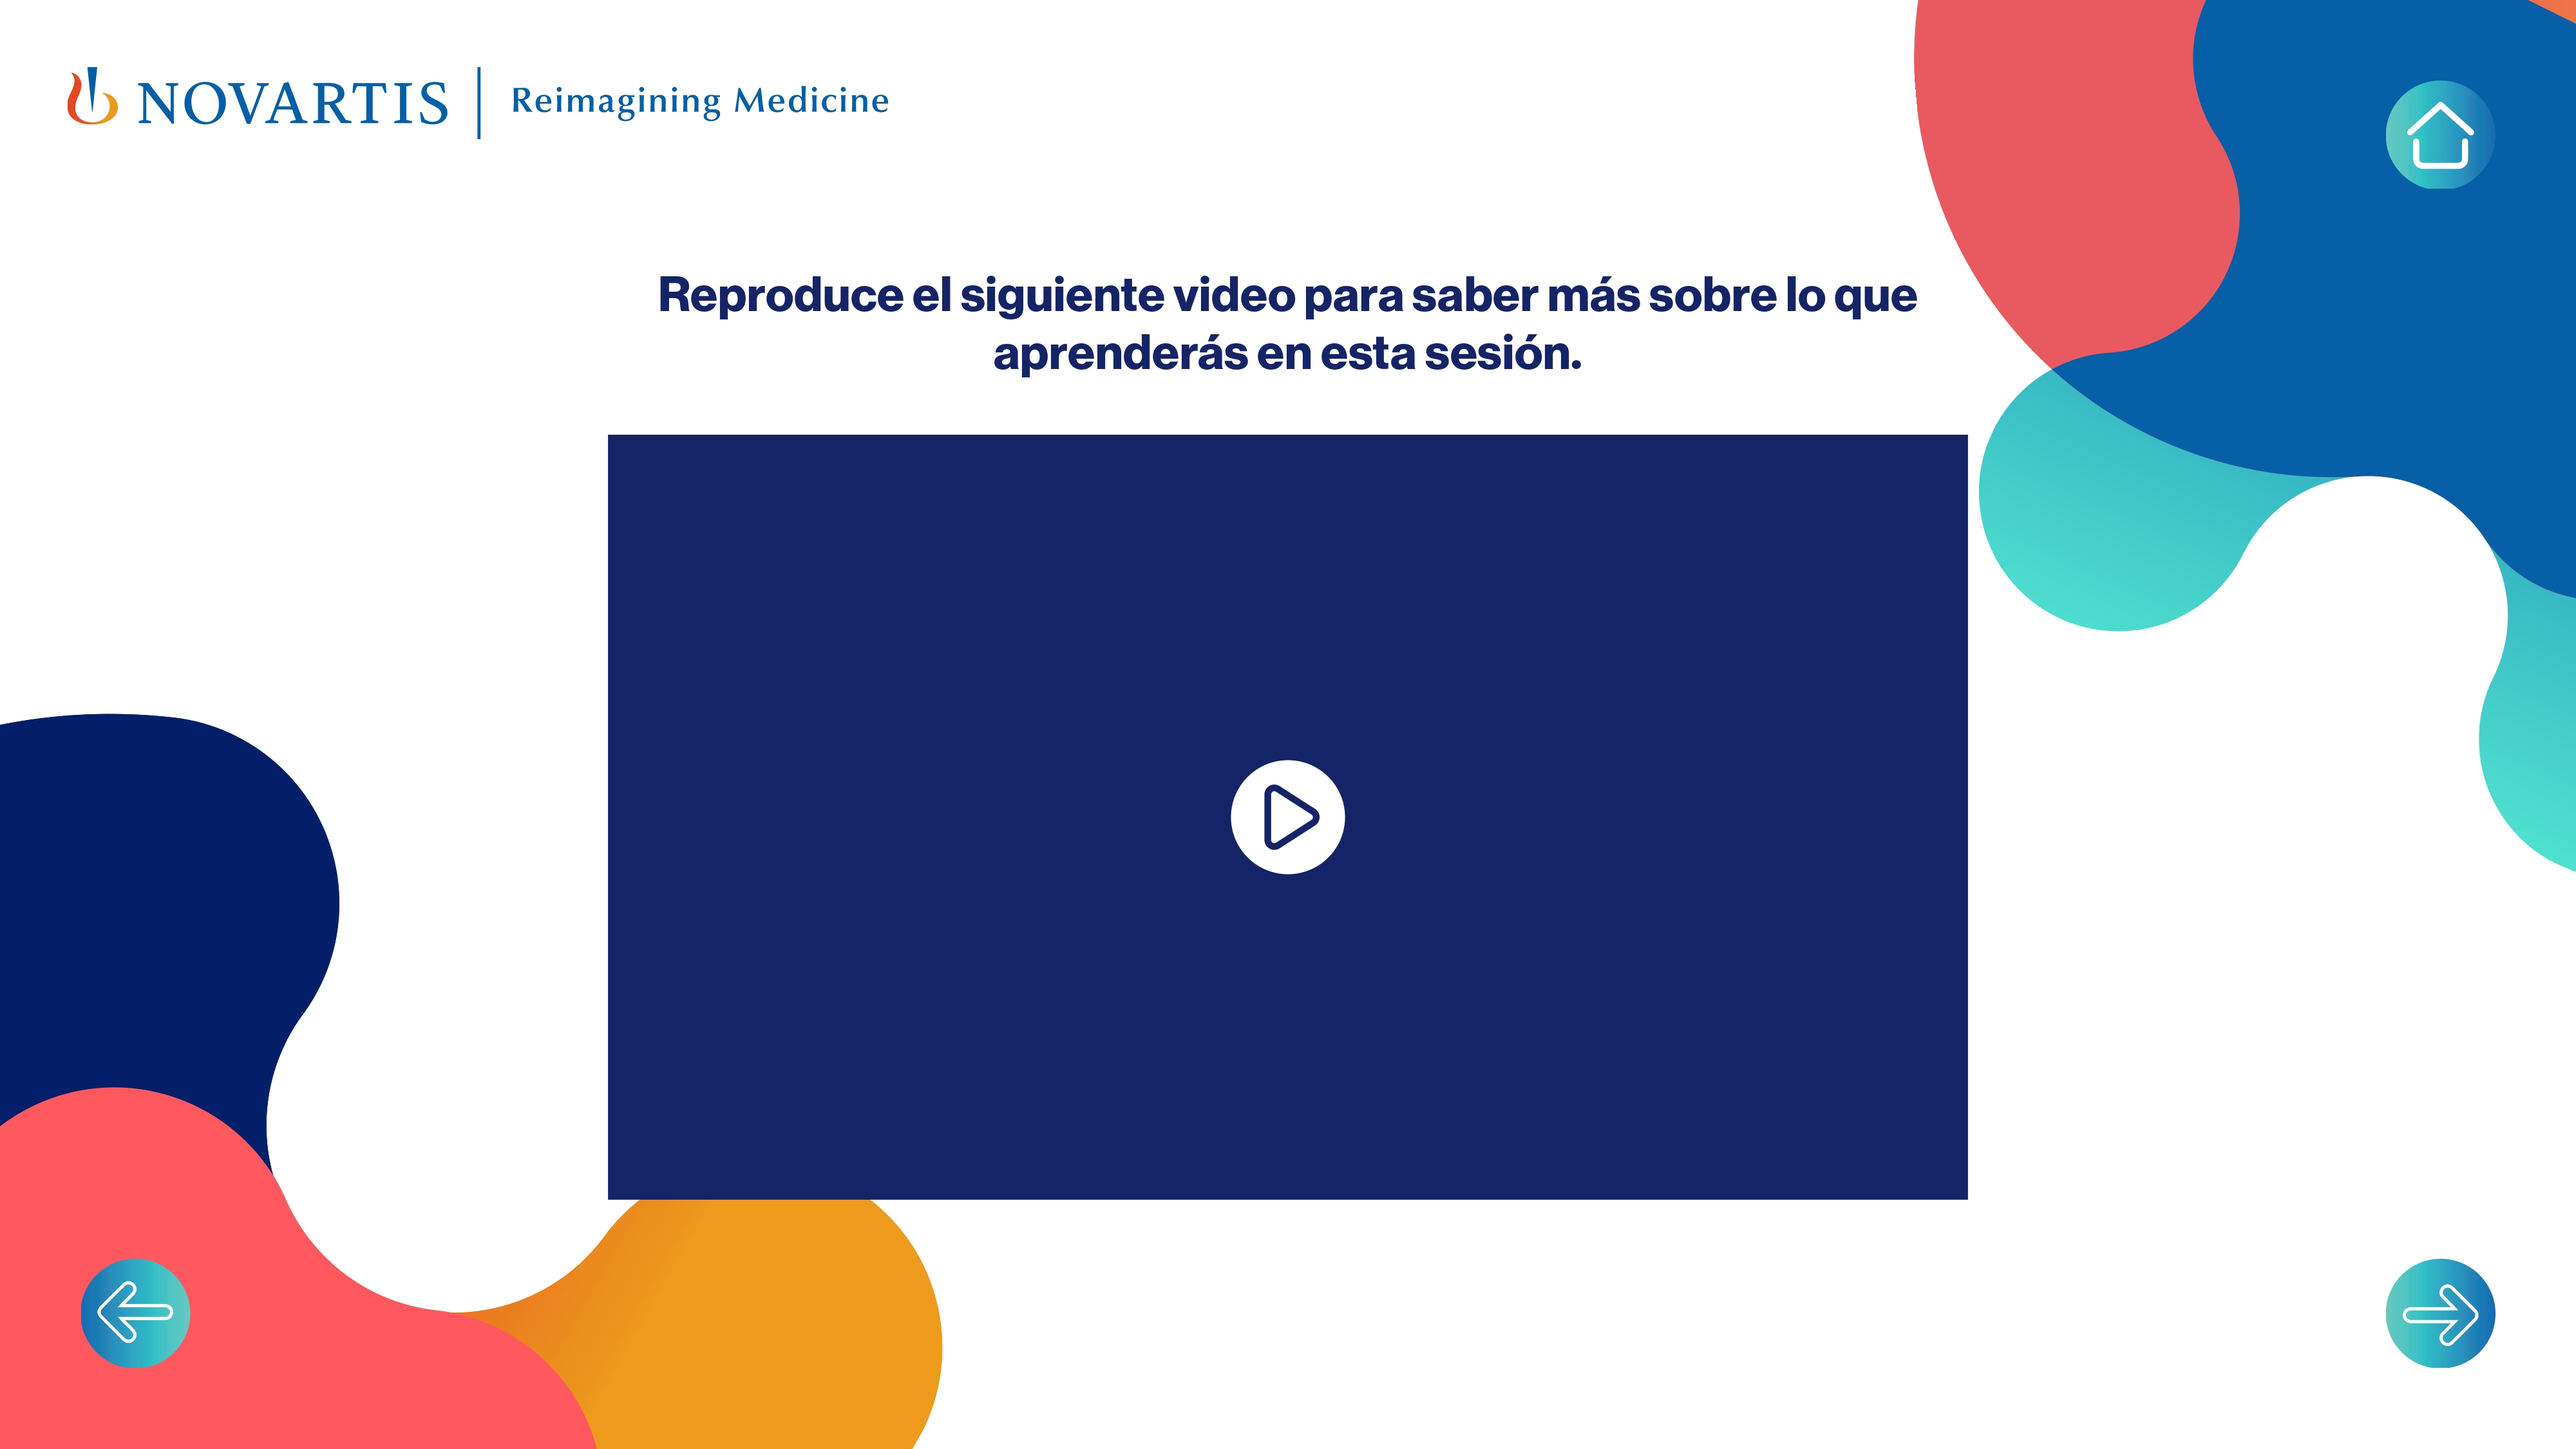
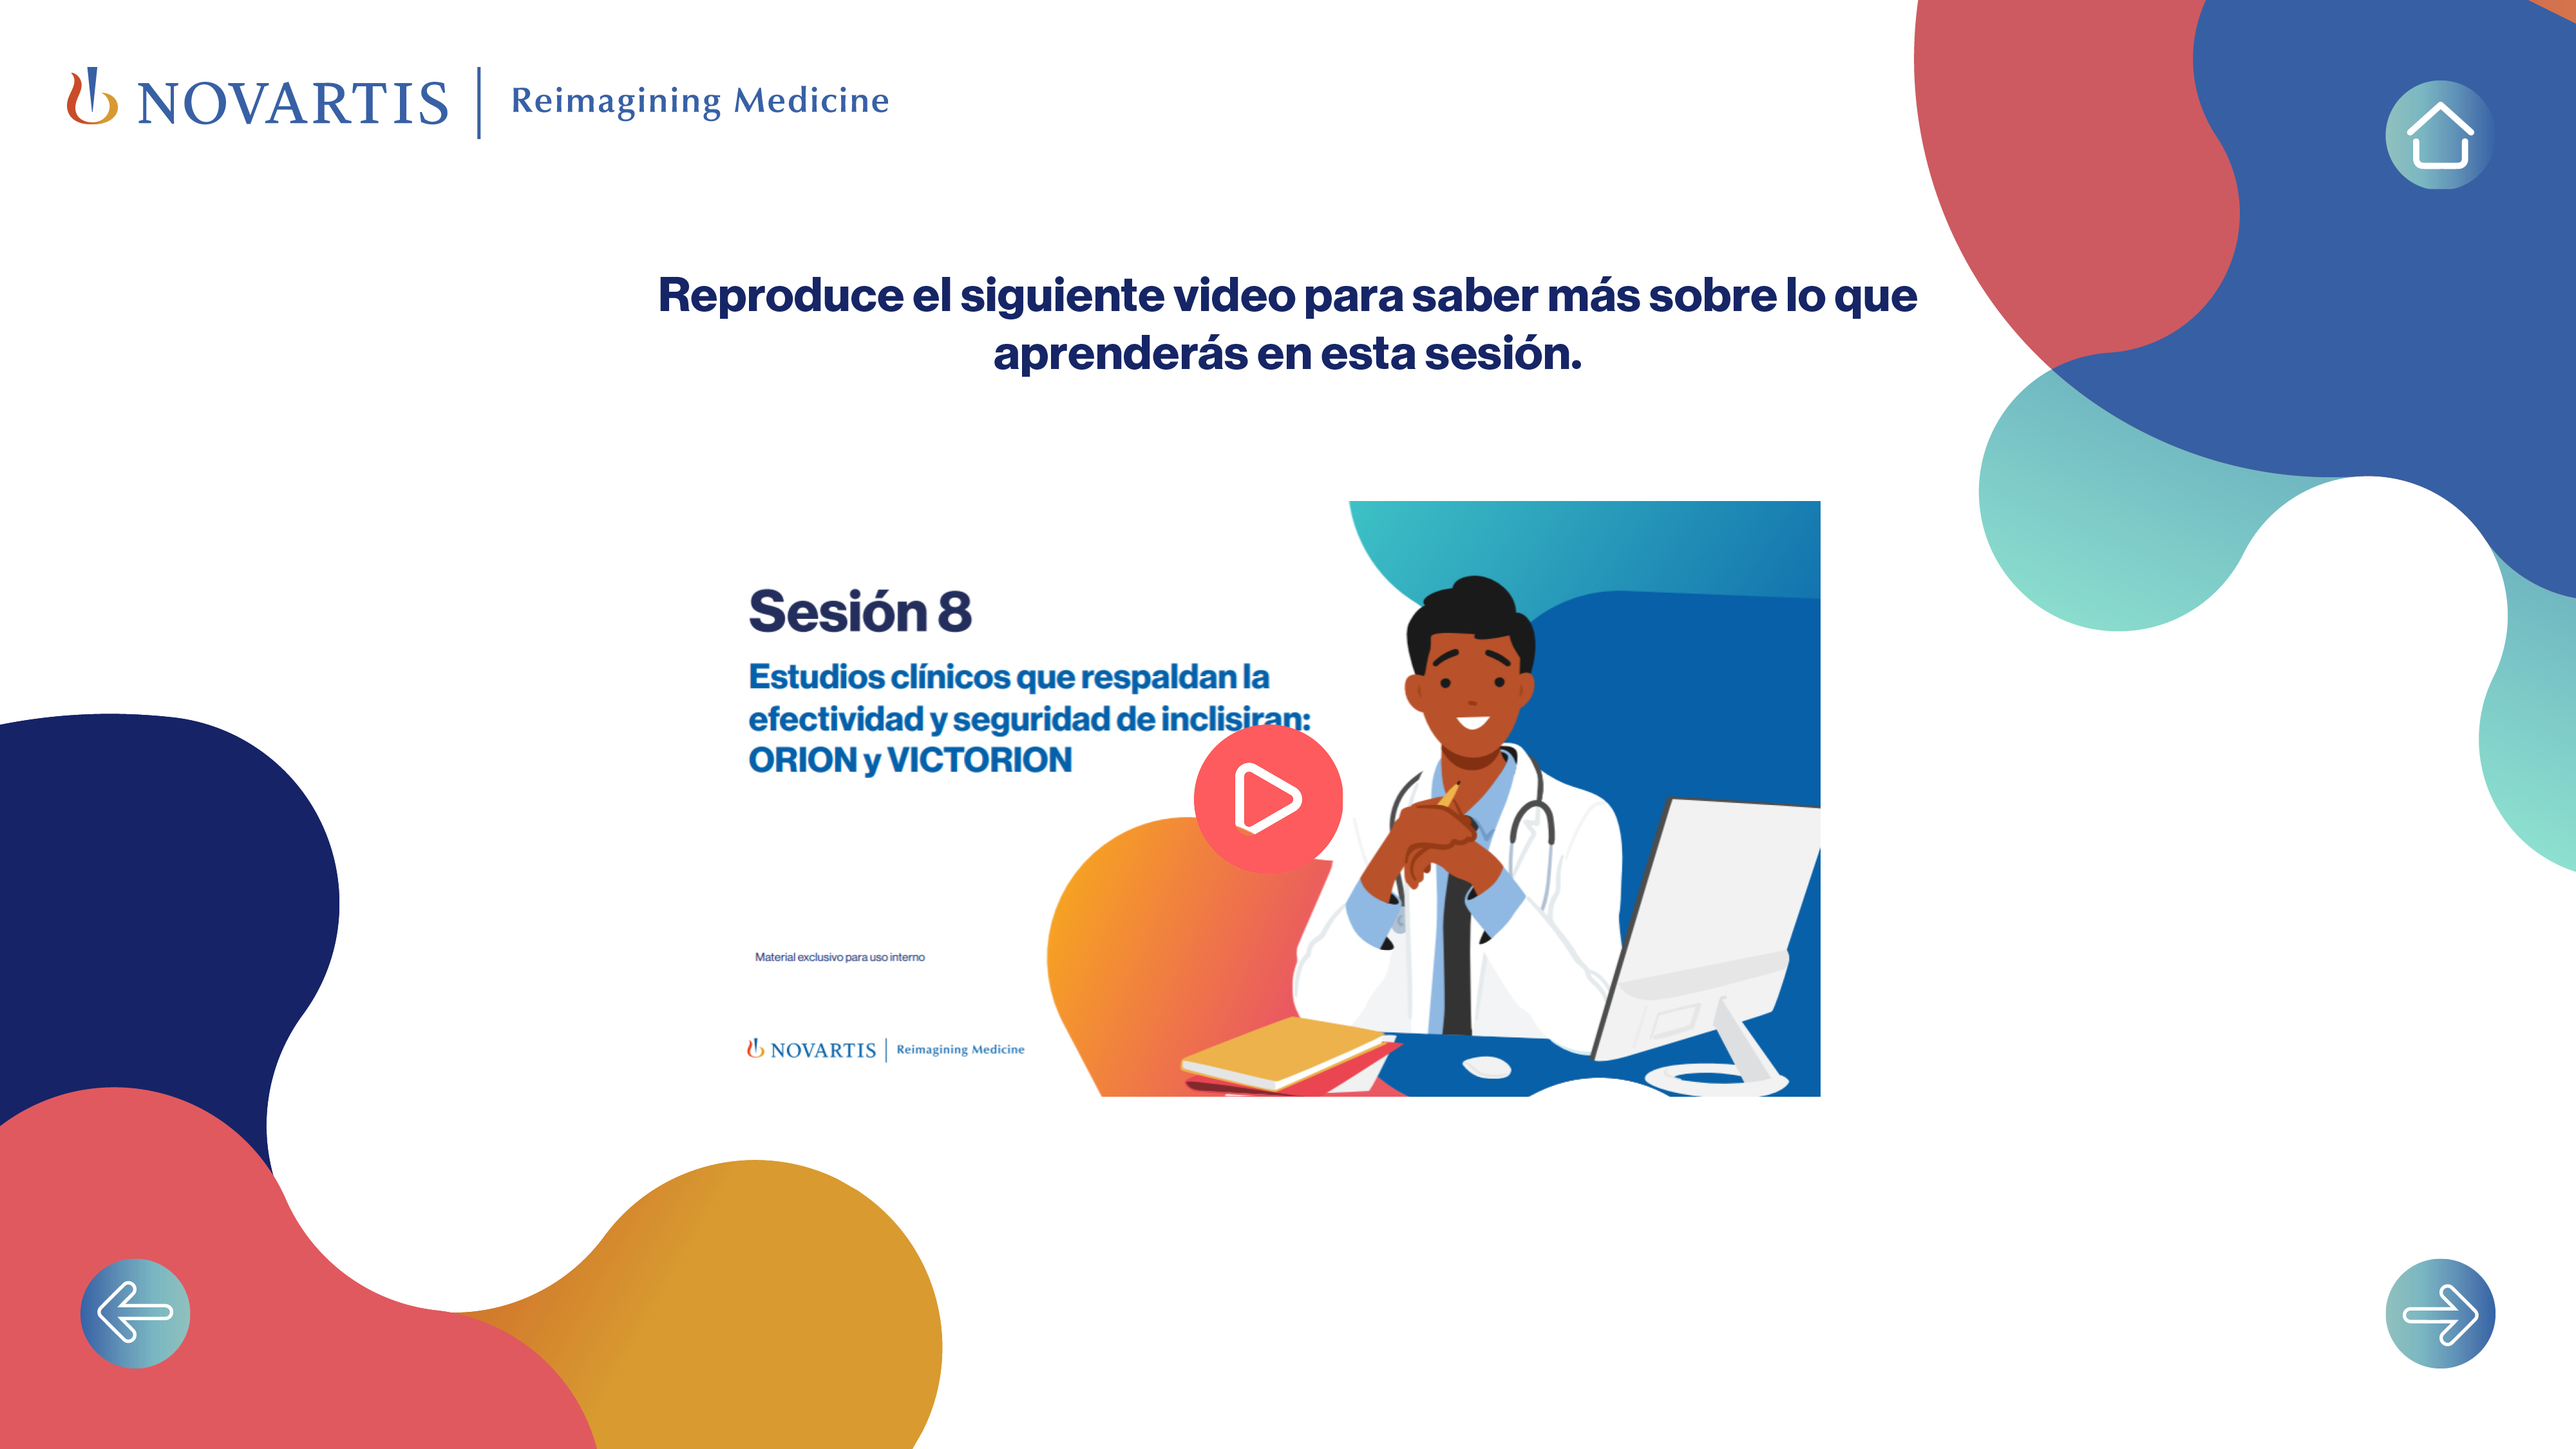
imagenes

diff --git a/css/styles489.css b/css/styles489.css
@@ -49,10 +49,10 @@ body {
 .reproduc {
 	z-index: 1;
 	position: absolute;
-	top: 28.6%;
-    left: 18.8%;
-    width: 62.4%;
-    height: 54.4%;
+	top: 32.6%;
+    left: 24.8%;
+    width: 48.4%;
+    height: 45.4%;
 	border-radius: 2%;
 	display: none;
 }
@@ -94,8 +94,8 @@ body {
 .boton-play {
 	position: absolute;
 	width: 6%;
-	top: 51%;
-    left: 46.8%;
+	top: 49.6%;
+    left: 46.3%;
 	animation-duration: 0.5s !important;
 }
 

diff --git a/css/styles538.css b/css/styles538.css
@@ -49,10 +49,10 @@ body {
 .reproduc {
 	z-index: 1;
 	position: absolute;
-	top: 28.6%;
-    left: 18.8%;
-    width: 62.4%;
-    height: 54.4%;
+	top: 32.6%;
+    left: 24.8%;
+    width: 48.4%;
+    height: 45.4%;
 	border-radius: 2%;
 	display: none;
 }
@@ -94,8 +94,8 @@ body {
 .boton-play {
 	position: absolute;
 	width: 6%;
-	top: 51%;
-    left: 47.4%;
+	top: 47.9%;
+    left: 45.6%;
 	animation-duration: 0.5s !important;
 }
 

diff --git a/index538.html b/index538.html
@@ -28,7 +28,7 @@
 			<div class="play-boton"></div>
 			<video class="reproduc" id="reproduc" controls autoplay muted>
 				<source
-					src="https://eml.com.co/entresto/"
+					src="https://eml.com.co/entresto/UP-R_Resumen_estudios_S8_27-11-24_VS.mp4"
 					type="video/mp4" />
 			</video>
 			<div class="video-2" id="video"></div>

diff --git a/index555.html b/index555.html
@@ -22,7 +22,7 @@
 			<a href="./index.html" class="boton-next"></a>
 
 			<a
-				href="https://eml.com.co/entresto/"
+				href="https://eml.com.co/entresto/UI-R_Agenda Sesion 8_07-11-24_PGC.pdf"
 				target="_blank"
 				class="dowload">
 			</a>
